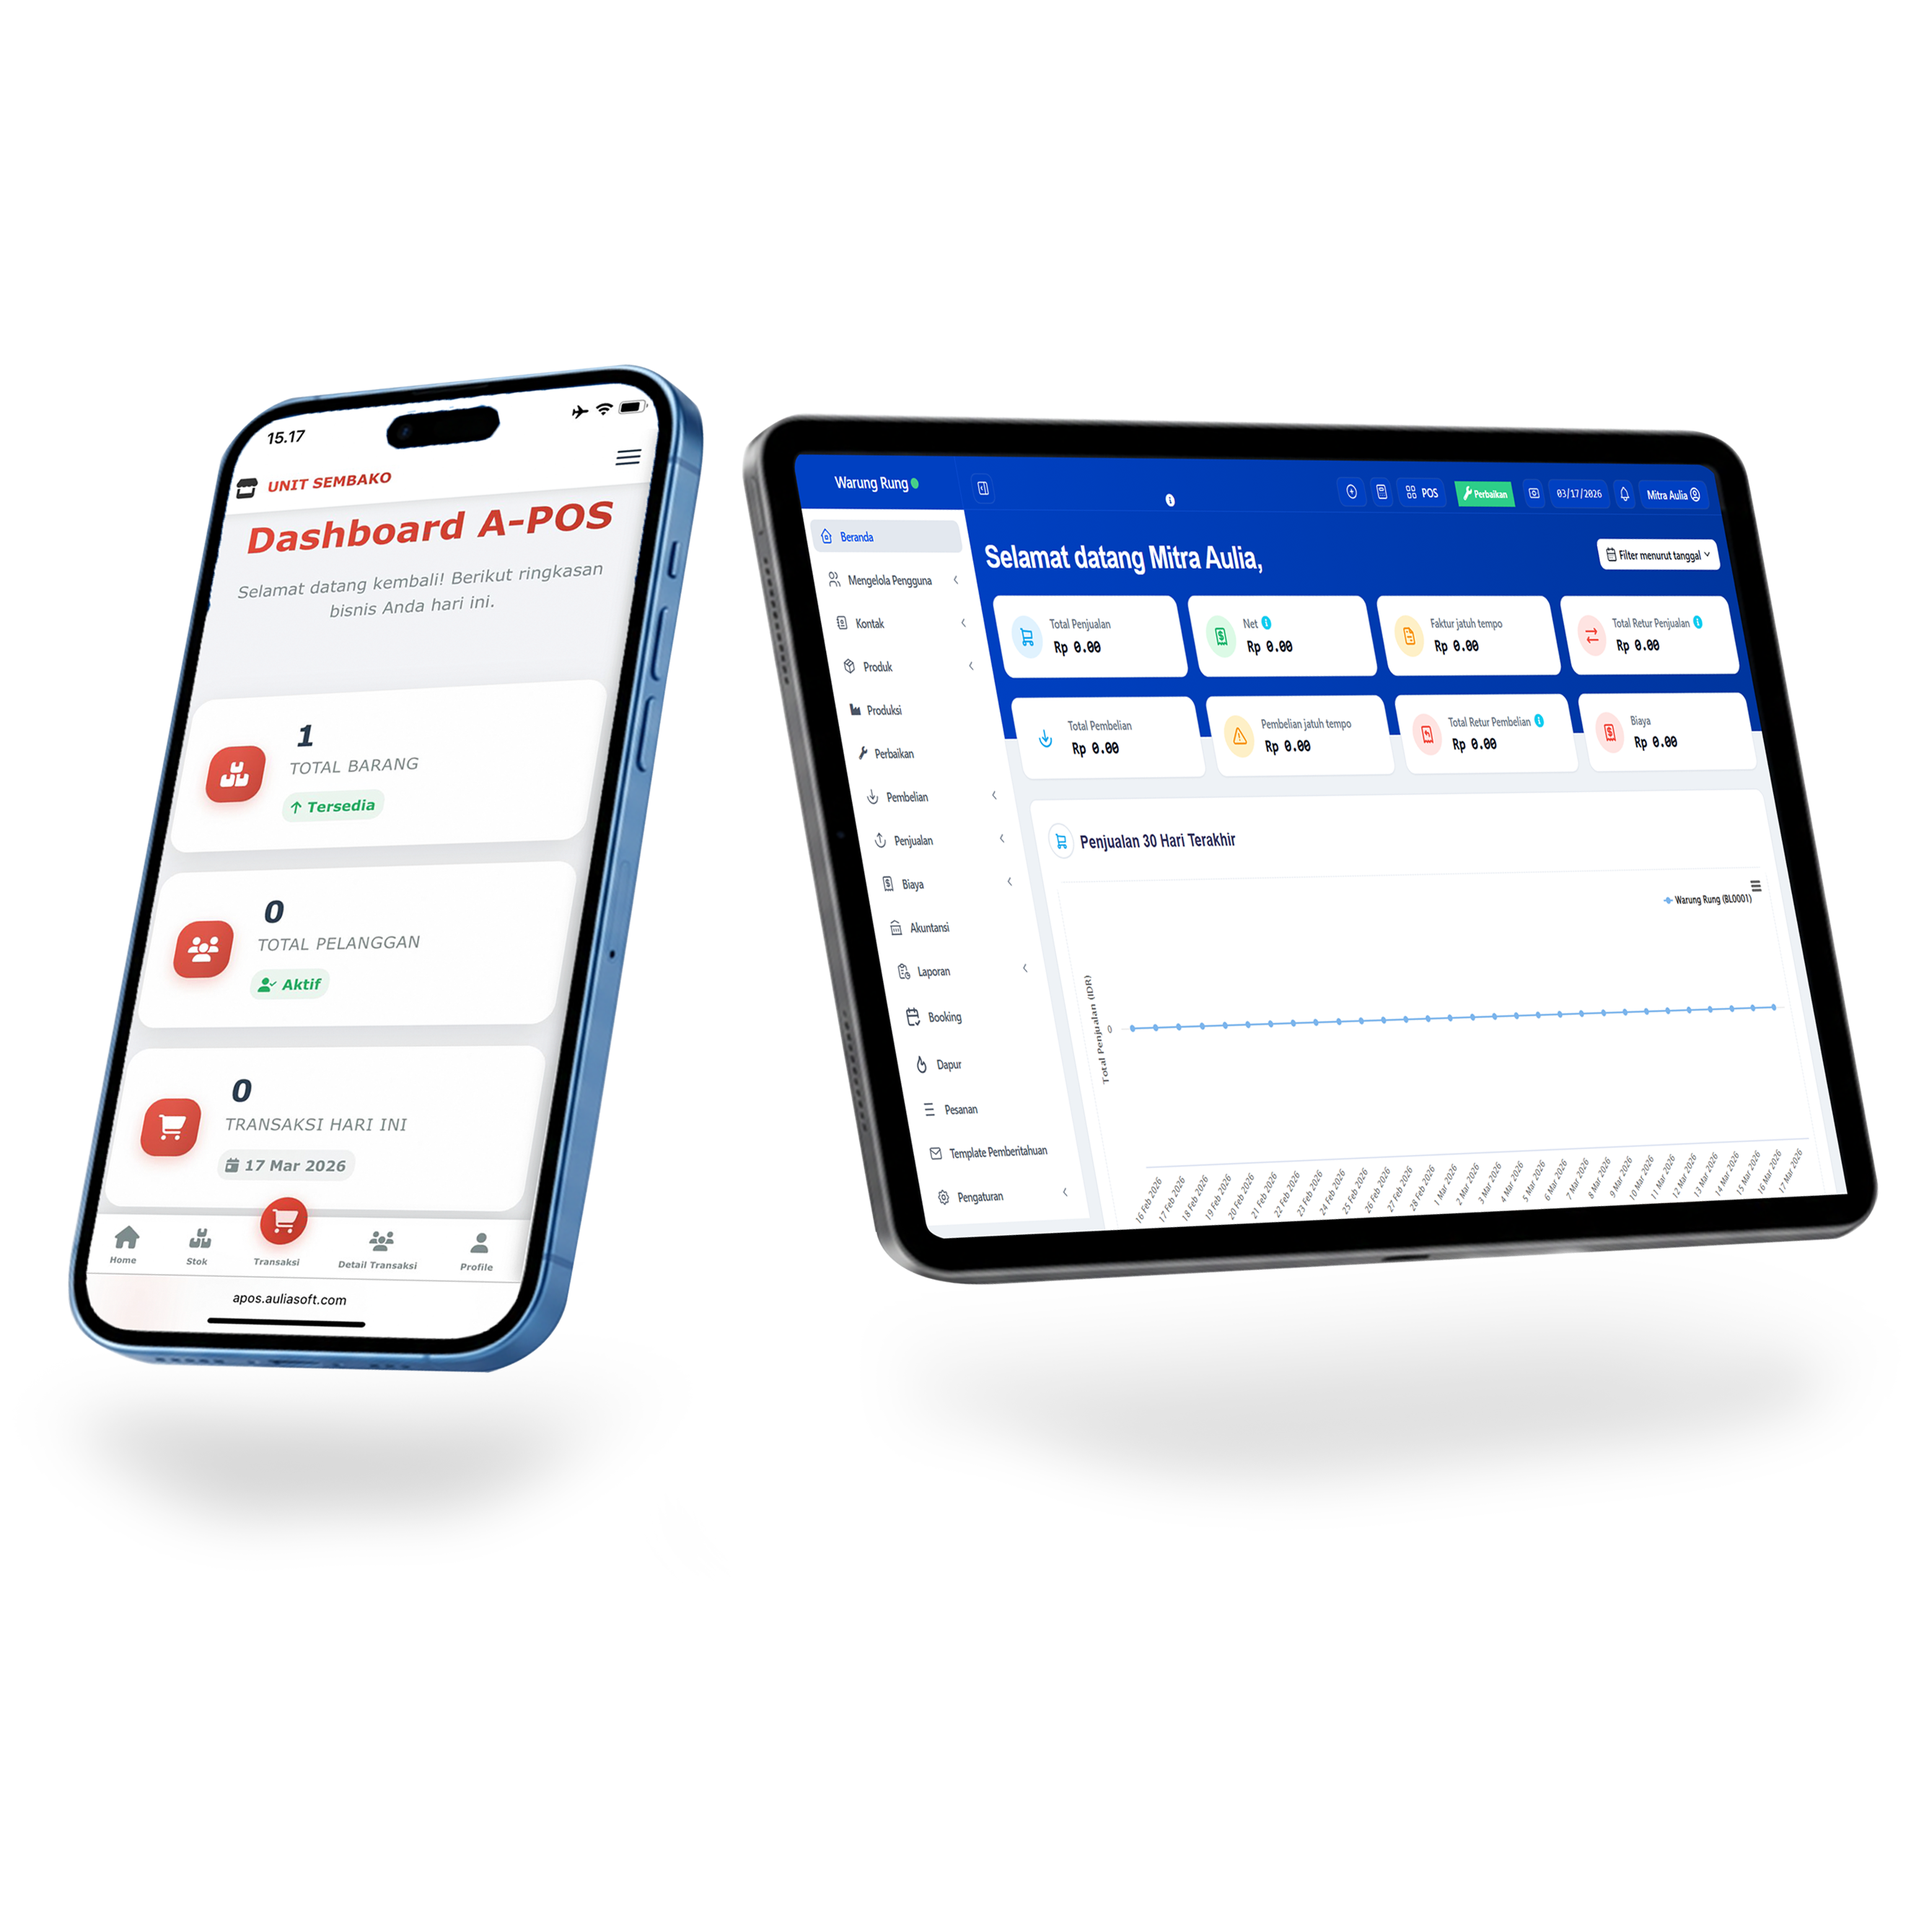
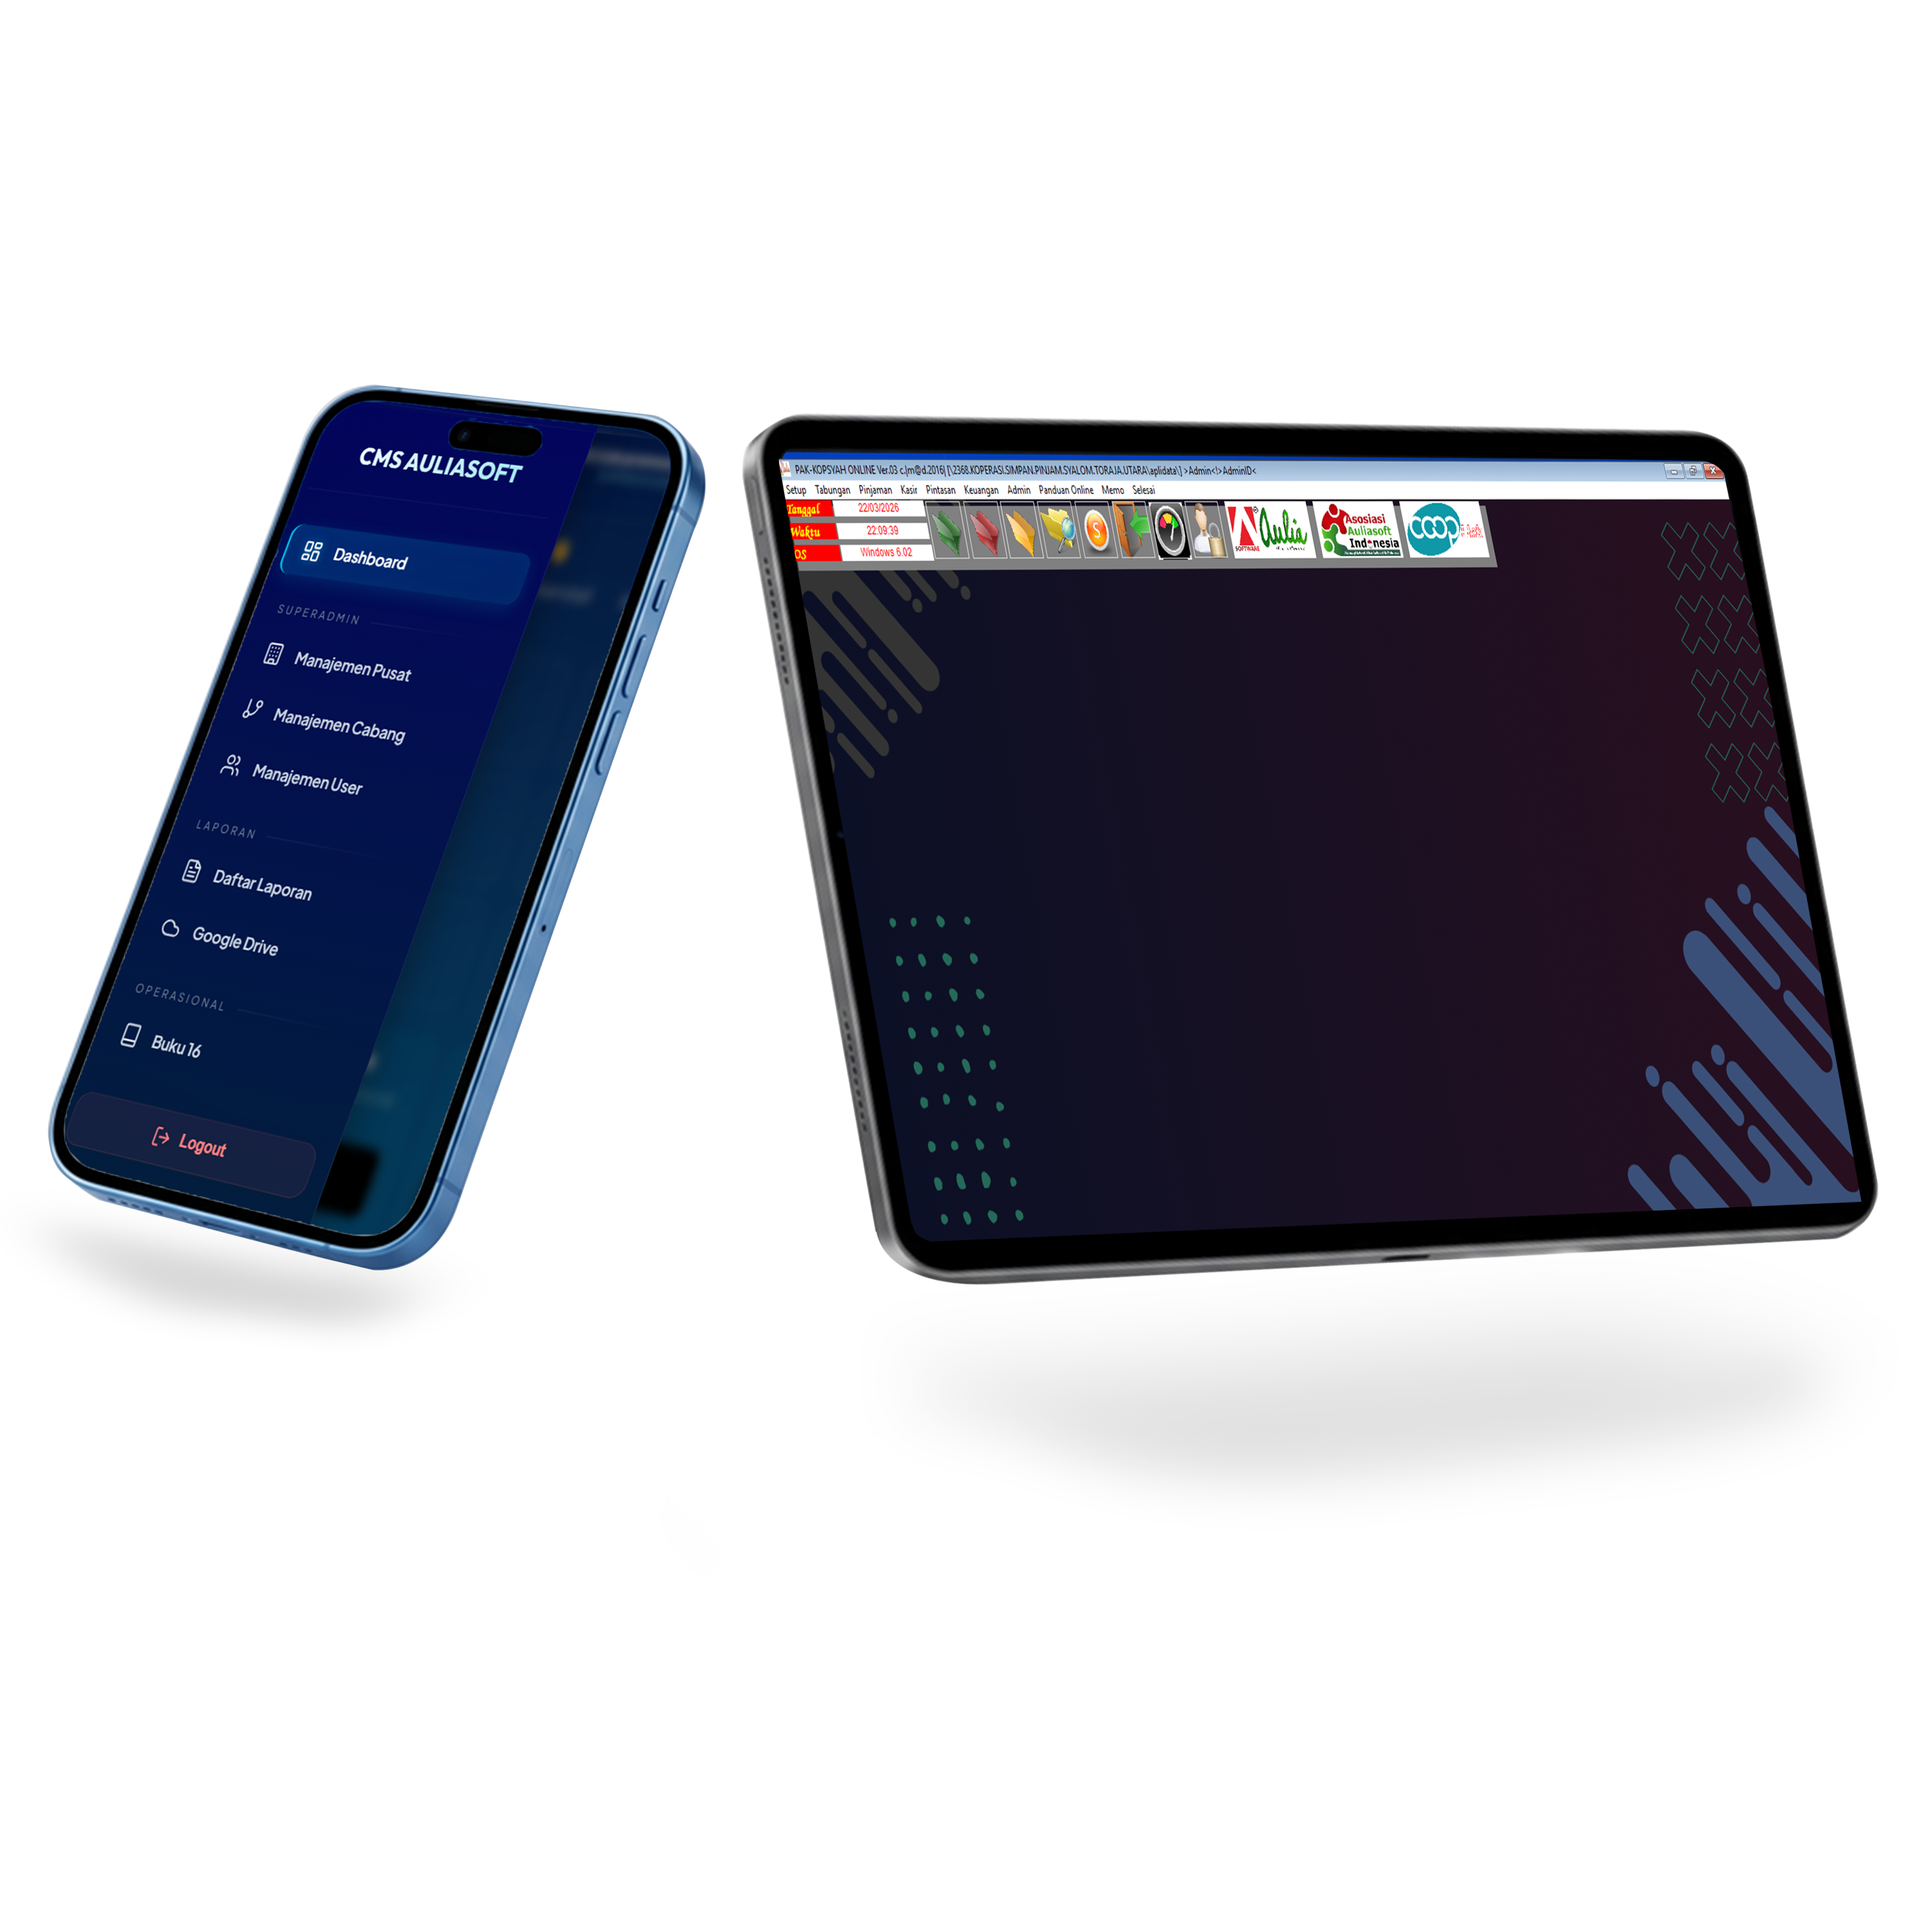
update

diff --git a/css/style.css b/css/style.css
@@ -290,7 +290,8 @@ body {
 .premium-laptop {
   position: relative;
   width: 100%;
-  max-width: 1000px; /* Maximum expansion for "Kasiraulia" look */
+  max-width: 1000px;
+  /* Maximum expansion for "Kasiraulia" look */
   margin: 0 auto;
   perspective: 2000px;
   transform-style: preserve-3d;
@@ -549,11 +550,10 @@ body {
   }
 
   .hero-overlay {
-    background: linear-gradient(to bottom, 
-      rgba(15, 23, 42, 0.85) 0%, 
-      rgba(15, 23, 42, 0.7) 40%, 
-      rgba(15, 23, 42, 0.85) 100%
-    );
+    background: linear-gradient(to bottom,
+        rgba(15, 23, 42, 0.85) 0%,
+        rgba(15, 23, 42, 0.7) 40%,
+        rgba(15, 23, 42, 0.85) 100%);
   }
 }
 
@@ -580,7 +580,8 @@ body {
   position: relative;
   z-index: 2;
   display: grid;
-  grid-template-columns: 1.1fr 0.9fr; /* Maximum expansion for laptop space */
+  grid-template-columns: 1.1fr 0.9fr;
+  /* Maximum expansion for laptop space */
   gap: 4rem;
   align-items: center;
   color: white;
@@ -591,7 +592,8 @@ body {
 }
 
 .hero-text-side h1 {
-  font-size: clamp(2.5rem, 6vw, 3.5rem); /* Extra large for Kasiraulia style */
+  font-size: clamp(2.5rem, 6vw, 3.5rem);
+  /* Extra large for Kasiraulia style */
   font-weight: 800;
   line-height: 1.1;
   margin-bottom: 1.5rem;
@@ -599,7 +601,8 @@ body {
 }
 
 .hero-text-side p {
-  font-size: 1.25rem; /* Slightly larger for readability */
+  font-size: 1.25rem;
+  /* Slightly larger for readability */
   opacity: 0.9;
   margin-bottom: 2.5rem;
   max-width: 900px;

diff --git a/index.html b/index.html
@@ -88,7 +88,7 @@
     <div class="container-flex">
       <div class="content-half fade-in">
         <div class="image-wrapper">
-          <img src="img/offline-apps.png" alt="Aplikasi Koperasi Offline Desktop" class="mockup-isometric">
+          <img src="img/tablet-mockup.png" alt="Aplikasi Koperasi Offline Desktop" class="mockup-isometric">
         </div>
       </div>
       <div class="content-half fade-in">
@@ -134,7 +134,7 @@
       </div>
       <div class="content-half fade-in">
         <div class="image-wrapper">
-          <img src="img/cms-aulia.png" alt="CMS Auliasoft Online Dashboard" class="mockup-tablet">
+          <img src="img/handphone.png" alt="CMS Auliasoft Online Dashboard" class="mockup-tablet">
         </div>
       </div>
     </div>
